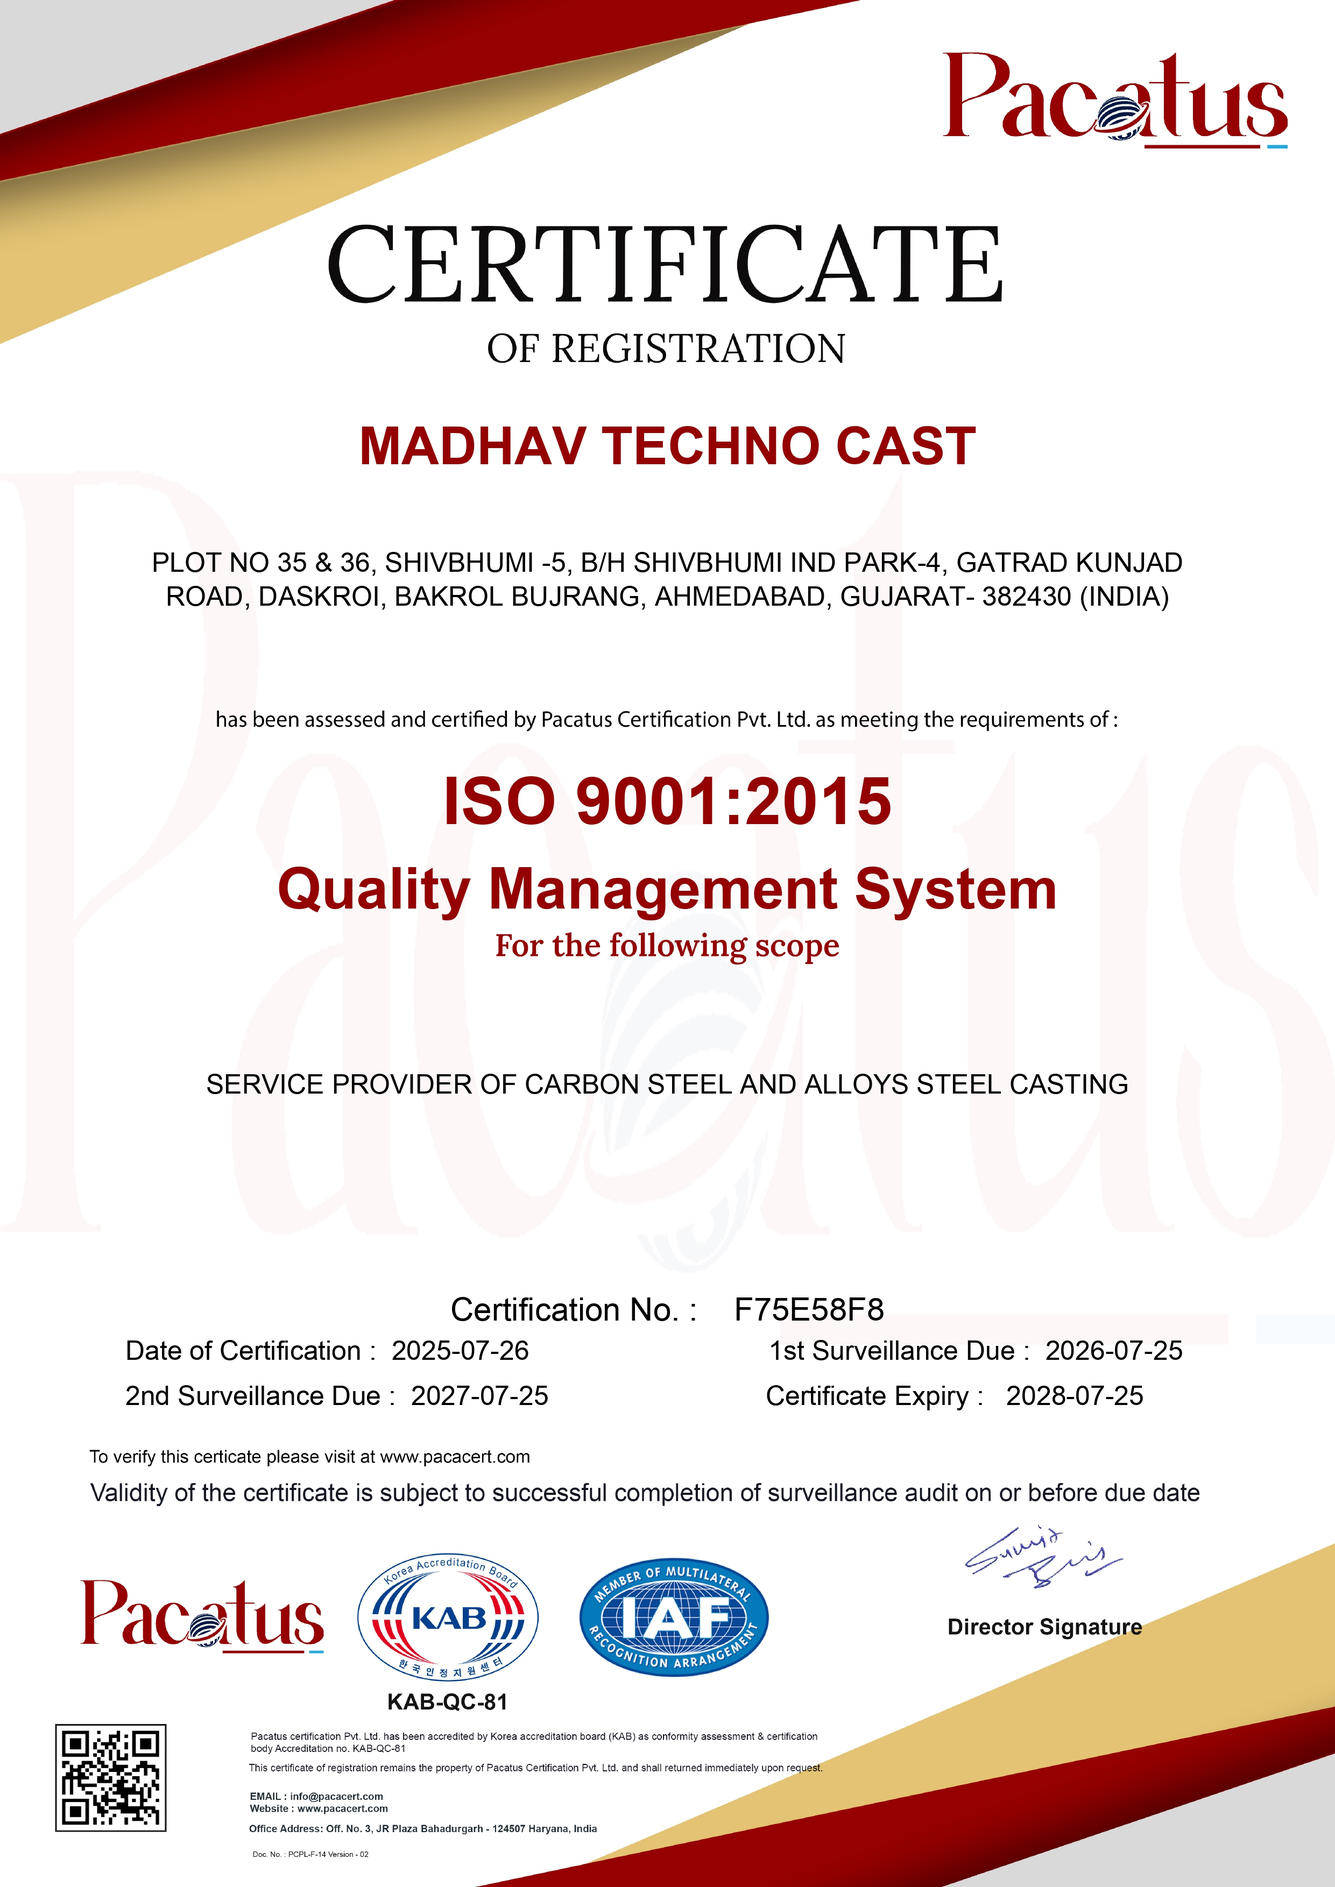
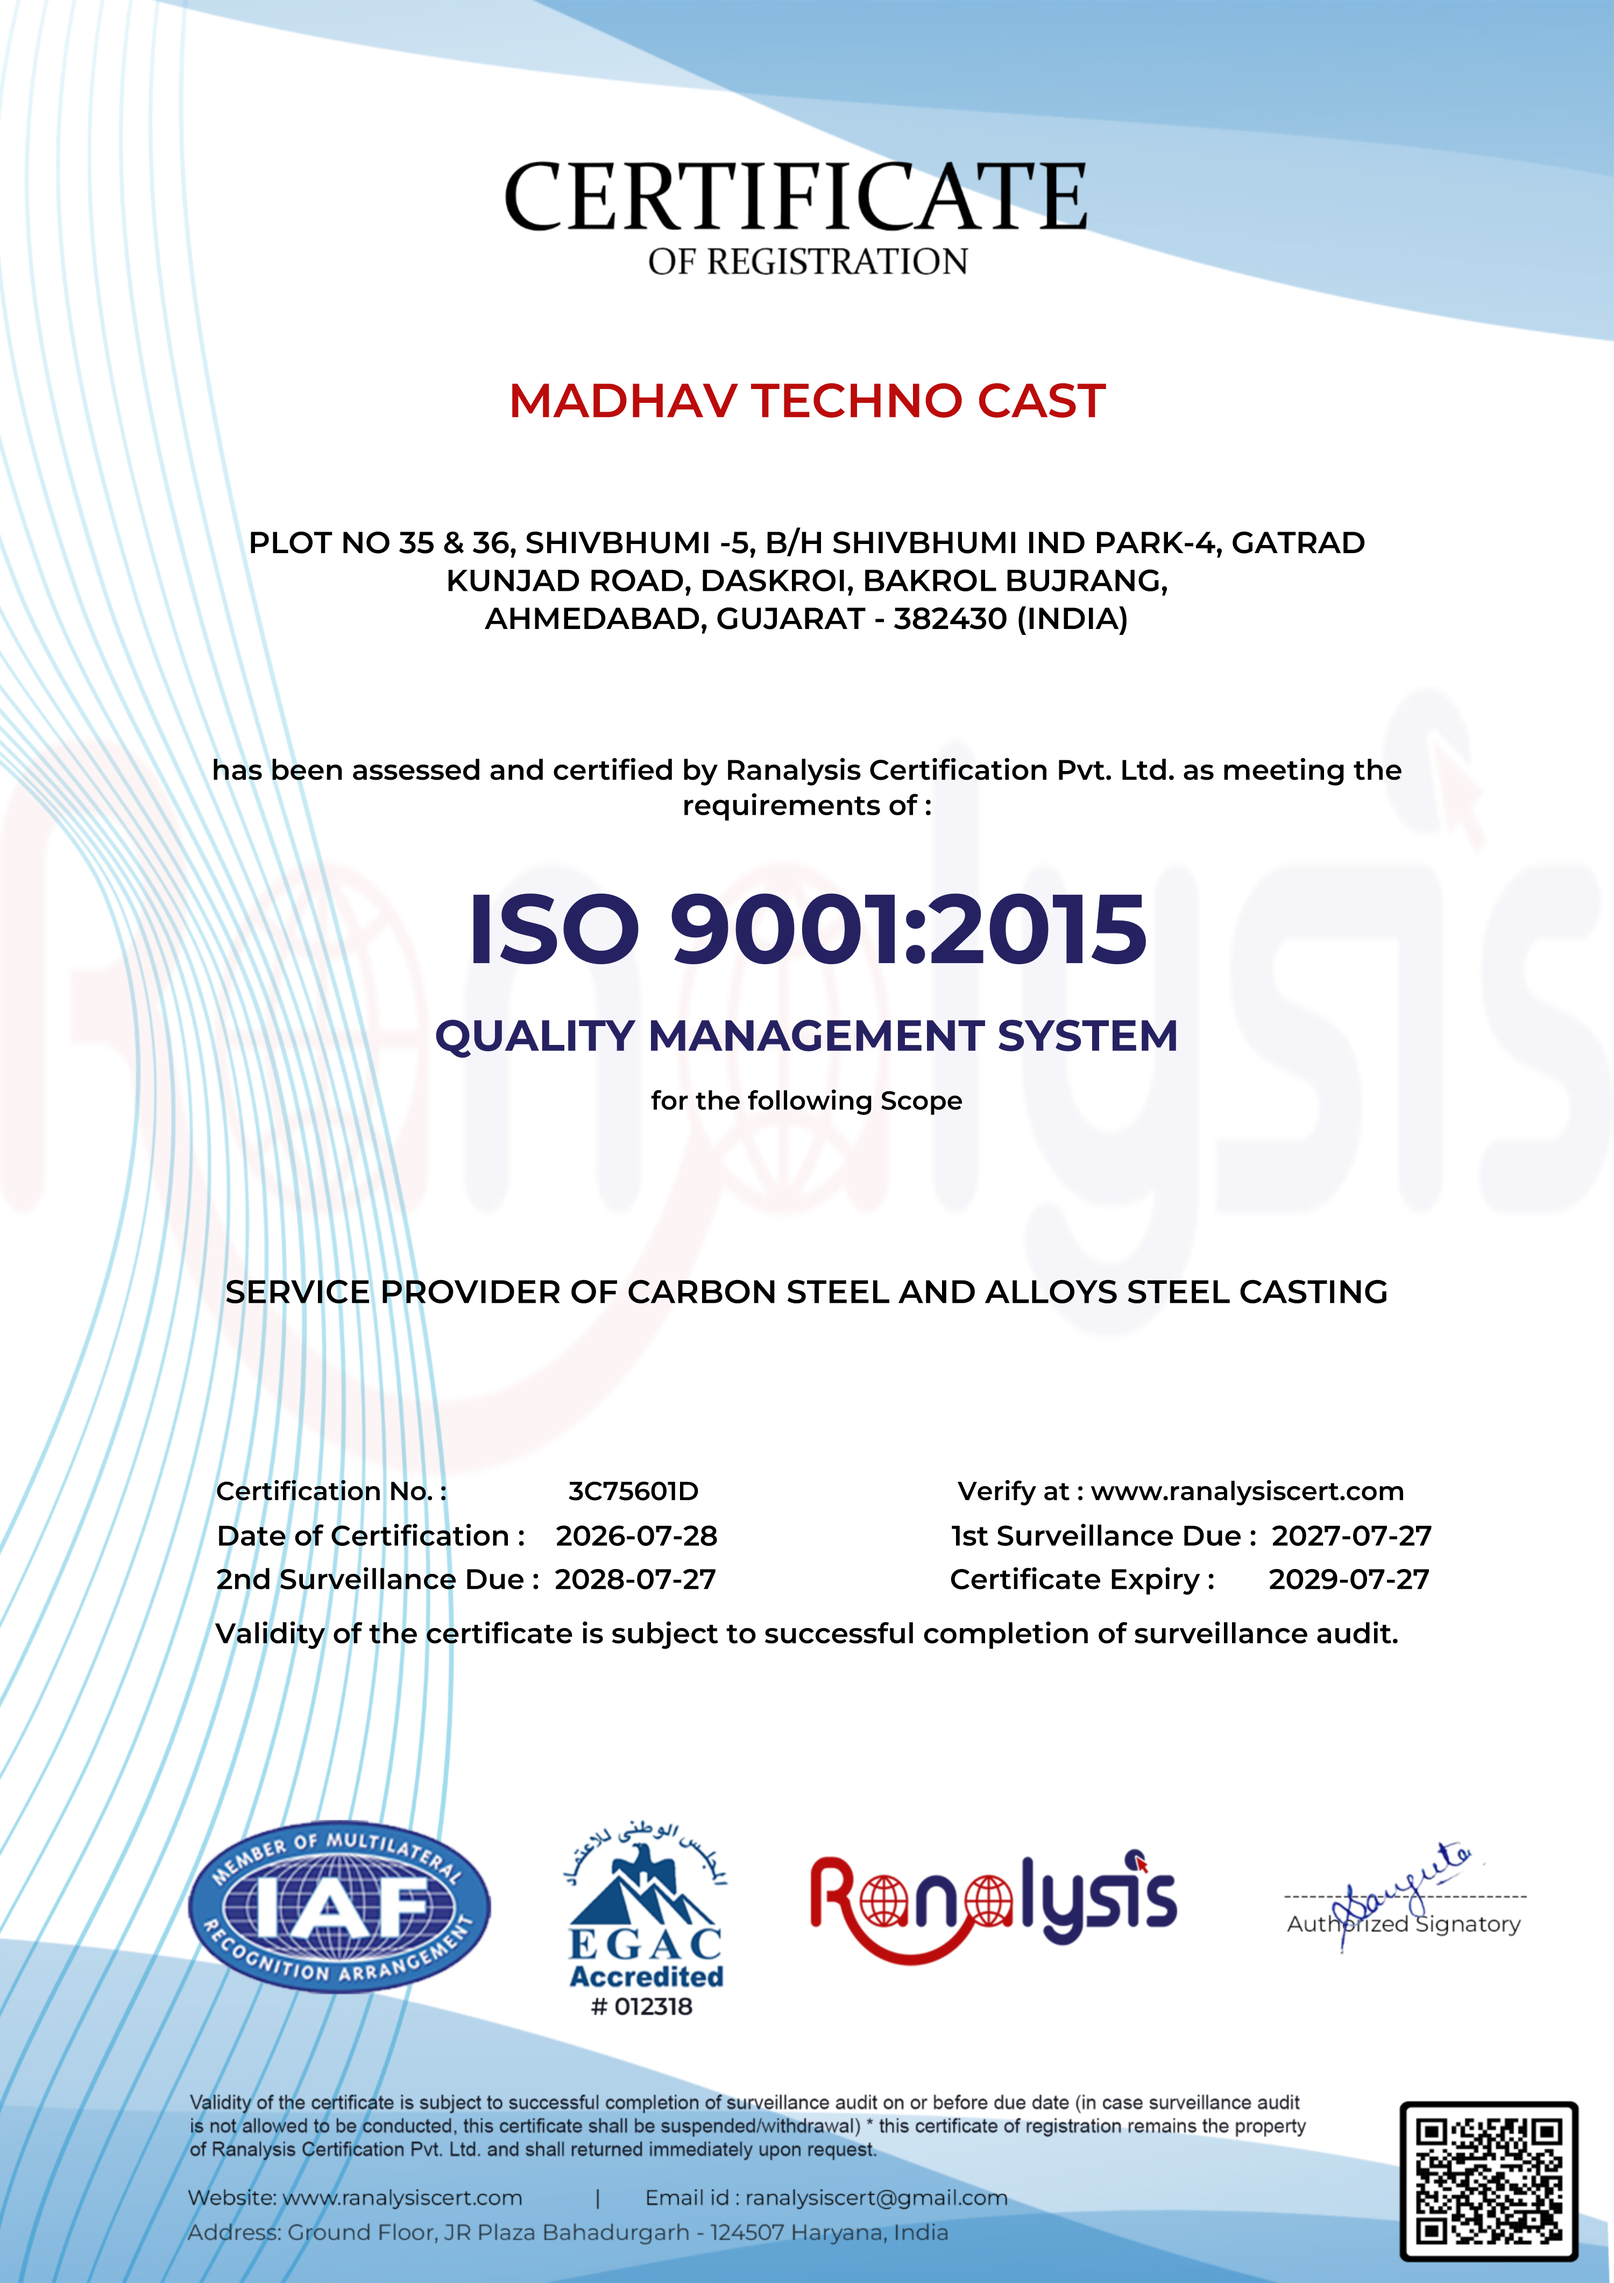
Update ISO 9001:2015 certificate (Cert No: 3C75601D) by Ranalysis Certification

diff --git a/quality.html b/quality.html
@@ -2,7 +2,7 @@
 <html lang="en">
 <head>
   <meta charset="UTF-8" /><meta name="viewport" content="width=device-width, initial-scale=1.0" />
-  <meta name="description" content="Madhav Techno Cast quality control – in-house spectrometer, NABL-approved testing, IS/ASTM/EN standard compliance, material traceability and KAB-QC-81 certification." />
+  <meta name="description" content="Madhav Techno Cast quality control – in-house spectrometer, NABL-approved testing, IS/ASTM/EN standard compliance, material traceability and ISO 9001:2015 certification (3C75601D)." />
   <link rel="icon" href="MADHAV/TECHNO/favicon.ico" /><title>Quality Control & Certifications | IS ASTM EN Standards | Madhav Techno Cast</title>
   <link rel="canonical" href="https://madhavtechnocast.com/quality.html" />
   <script type="application/ld+json">
@@ -11,7 +11,7 @@
     "@type": "WebPage",
     "name": "Quality Control & Certifications | Madhav Techno Cast",
     "url": "https://madhavtechnocast.com/quality.html",
-    "description": "In-house spectrometer, NABL-approved testing, IS/ASTM/EN compliance, KAB-QC-81 certified. Material traceability for every casting.",
+    "description": "In-house spectrometer, NABL-approved testing, IS/ASTM/EN compliance, ISO 9001:2015 certified by Ranalysis Certification (Cert No: 3C75601D). Material traceability for every casting.",
     "breadcrumb": {
       "@type": "BreadcrumbList",
       "itemListElement": [
@@ -25,7 +25,7 @@
   <meta property="og:type" content="website" />
   <meta property="og:site_name" content="Madhav Techno Cast" />
   <meta property="og:title" content="Quality Control & Certifications | Madhav Techno Cast" />
-  <meta property="og:description" content="KAB-QC-81 certified. In-house 24-element spectrometer, NABL testing, material traceability. IS/ASTM/EN standard compliance for every casting." />
+  <meta property="og:description" content="ISO 9001:2015 certified by Ranalysis Certification Pvt. Ltd. (Cert No: 3C75601D). In-house 24-element spectrometer, NABL testing, material traceability." />
   <meta property="og:url" content="https://madhavtechnocast.com/quality.html" />
   <meta property="og:image" content="https://madhavtechnocast.com/MADHAV/qualityCertificate_updated.jpg" />
   <meta name="twitter:card" content="summary_large_image" />
@@ -124,16 +124,18 @@
             <p style="color:var(--clr-text-muted);line-height:1.8;margin-bottom:16px;">All vendors and sub-contractors are selected after careful examination and test orders. Periodic and random checks are performed regularly to ensure consistent quality from every supplier.</p>
             <p style="color:var(--clr-text-muted);line-height:1.8;margin-bottom:28px;">Procedure-matrices are made for every process step and are strictly adhered to by our qualified metallurgical personnel – from moulding to fettling.</p>
             <div class="cert-banner">
-              <img src="MADHAV/qualityCertificate.JPG" alt="Madhav Techno Cast Quality Certificate KAB-QC-81" class="cert-banner__img" onerror="this.style.display='none'" />
+              <img src="MADHAV/qualityCertificate_updated.jpg" alt="Madhav Techno Cast ISO 9001:2015 Certificate 3C75601D" class="cert-banner__img" />
               <div>
-                <div class="cert-banner__title">ISO Quality Certification – KAB-QC-81</div>
-                <p class="cert-banner__detail">Certified by Pacatus Certification Pvt. Ltd.<br />Certificate No: KAB-QC-81 &bull; Scope: Metal Casting Manufacturing</p>
+                <div class="cert-banner__title">ISO 9001:2015 Certification – 3C75601D</div>
+                <p class="cert-banner__detail">Certified by Ranalysis Certification Pvt. Ltd.<br />Certificate No: 3C75601D &bull; Scope: Carbon Steel and Alloys Steel Casting</p>
               </div>
             </div>
           </div>
           <div>
             <div style="border-radius:20px;overflow:hidden;box-shadow:0 16px 48px rgba(0,0,0,0.15);display:flex;align-items:center;justify-content:center;background:#f5f7fa;">
-              <img src="MADHAV/qualityCertificate_updated.jpg" alt="Madhav Techno Cast Quality Certificate KAB-QC-81" style="width:100%;height:auto;display:block;border-radius:20px;" loading="lazy" onerror="this.src='MADHAV/qualityCertificate.JPG'" />
+              <a href="MADHAV/qualityCertificate_updated.pdf" target="_blank" title="View / Download ISO Certificate (PDF)" style="display:block;width:100%;">
+                <img src="MADHAV/qualityCertificate_updated.jpg" alt="Madhav Techno Cast Quality Certificate ISO 9001:2015 3C75601D" style="width:100%;height:auto;display:block;border-radius:20px;" loading="lazy" />
+              </a>
             </div>
           </div>
         </div>

diff --git a/about.html b/about.html
@@ -123,7 +123,7 @@
         "name": "What quality certifications does Madhav Techno Cast have?",
         "acceptedAnswer": {
           "@type": "Answer",
-          "text": "Madhav Techno Cast holds KAB-QC-81 certification from Pacatus Certification Pvt. Ltd. We have in-house 24-element spectrometer analysis, NABL-approved testing laboratory, online temperature and CE measurement, and electronic hardness testing for complete quality assurance."
+          "text": "Madhav Techno Cast holds ISO 9001:2015 certification (Cert No: 3C75601D) from Ranalysis Certification Pvt. Ltd. We have in-house 24-element spectrometer analysis, NABL-approved testing laboratory, online temperature and CE measurement, and electronic hardness testing for complete quality assurance."
         }
       },
       {
@@ -377,7 +377,7 @@
           </details>
           <details class="faq-item" style="background:var(--clr-grey-1);border-radius:12px;padding:20px 24px;border:1px solid var(--clr-grey-2);cursor:pointer;">
             <summary style="font-weight:600;font-size:1rem;color:var(--clr-text);list-style:none;display:flex;justify-content:space-between;align-items:center;">What quality certifications do you hold for steel casting? <i class="ph ph-caret-down" style="color:var(--clr-primary);flex-shrink:0;"></i></summary>
-            <p style="margin-top:12px;color:var(--clr-text-muted);line-height:1.8;">Madhav Techno Cast holds <strong>KAB-QC-81 certification</strong> from Pacatus Certification Pvt. Ltd. Our steel casting quality assurance includes in-house <strong>24-element spectrometer analysis</strong>, NABL-approved testing laboratory, online temperature and CE measurement, and electronic hardness testing.</p>
+            <p style="margin-top:12px;color:var(--clr-text-muted);line-height:1.8;">Madhav Techno Cast holds <strong>ISO 9001:2015 certification (Cert No: 3C75601D)</strong> from Ranalysis Certification Pvt. Ltd. Our steel casting quality assurance includes in-house <strong>24-element spectrometer analysis</strong>, NABL-approved testing laboratory, online temperature and CE measurement, and electronic hardness testing.</p>
           </details>
           <details class="faq-item" style="background:var(--clr-grey-1);border-radius:12px;padding:20px 24px;border:1px solid var(--clr-grey-2);cursor:pointer;">
             <summary style="font-weight:600;font-size:1rem;color:var(--clr-text);list-style:none;display:flex;justify-content:space-between;align-items:center;">Which industries do you serve with steel castings? <i class="ph ph-caret-down" style="color:var(--clr-primary);flex-shrink:0;"></i></summary>

diff --git a/index.html b/index.html
@@ -214,7 +214,7 @@
         <div class="stats__item"><i class="ph ph-factory stats__icon"></i><div><strong class="stats__number">10+</strong><span class="stats__label">Years of Experience</span></div></div>
         <div class="stats__item"><i class="ph ph-gear stats__icon"></i><div><strong class="stats__number">8+</strong><span class="stats__label">Product Categories</span></div></div>
         <div class="stats__item"><i class="ph ph-certificate stats__icon"></i><div><strong class="stats__number">IS/ASTM/EN</strong><span class="stats__label">Standards Compliant</span></div></div>
-        <div class="stats__item"><i class="ph ph-shield-check stats__icon"></i><div><strong class="stats__number">KAB-QC-81</strong><span class="stats__label">Quality Certified</span></div></div>
+        <div class="stats__item"><i class="ph ph-shield-check stats__icon"></i><div><strong class="stats__number">ISO 9001:2015</strong><span class="stats__label">Quality Certified</span></div></div>
       </div>
     </section>
 
@@ -319,7 +319,7 @@
           <h2 class="section__title" id="quality-heading">Quality with Consistency</h2>
           <p class="quality__lead">Every casting carries a unique identification on its un-machined surface, enabling precise traceability of materials and processes.</p>
           <p class="quality__text">Vendors are selected after careful examination and periodic random checks. Procedure-matrices are strictly followed by qualified personnel.</p>
-          <div class="quality__cert"><i class="ph ph-seal-check quality__cert-icon"></i><div><strong>Certified – KAB-QC-81</strong><span>Pacatus Certification Pvt. Ltd. · Cert No: KAB-QC-81</span></div></div>
+          <div class="quality__cert"><i class="ph ph-seal-check quality__cert-icon"></i><div><strong>ISO 9001:2015 Certified</strong><span>Ranalysis Certification Pvt. Ltd. · Cert No: 3C75601D</span></div></div>
           <div style="margin-top:20px;"><a href="quality.html" class="btn btn--primary">Quality Details</a></div>
         </div>
         <div class="quality__instruments">
